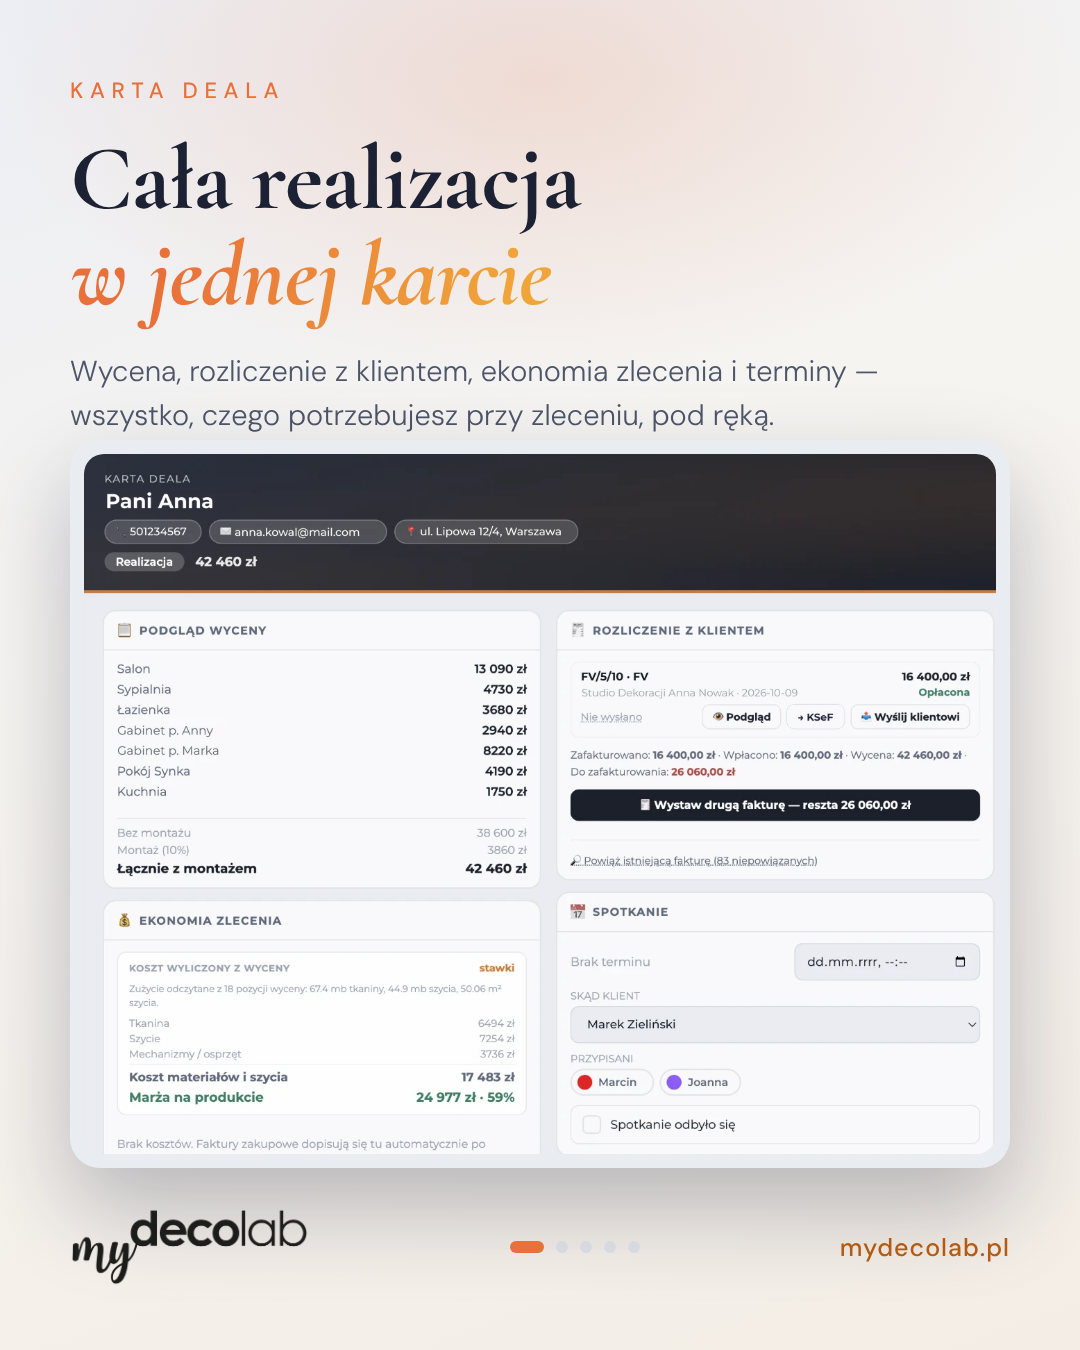
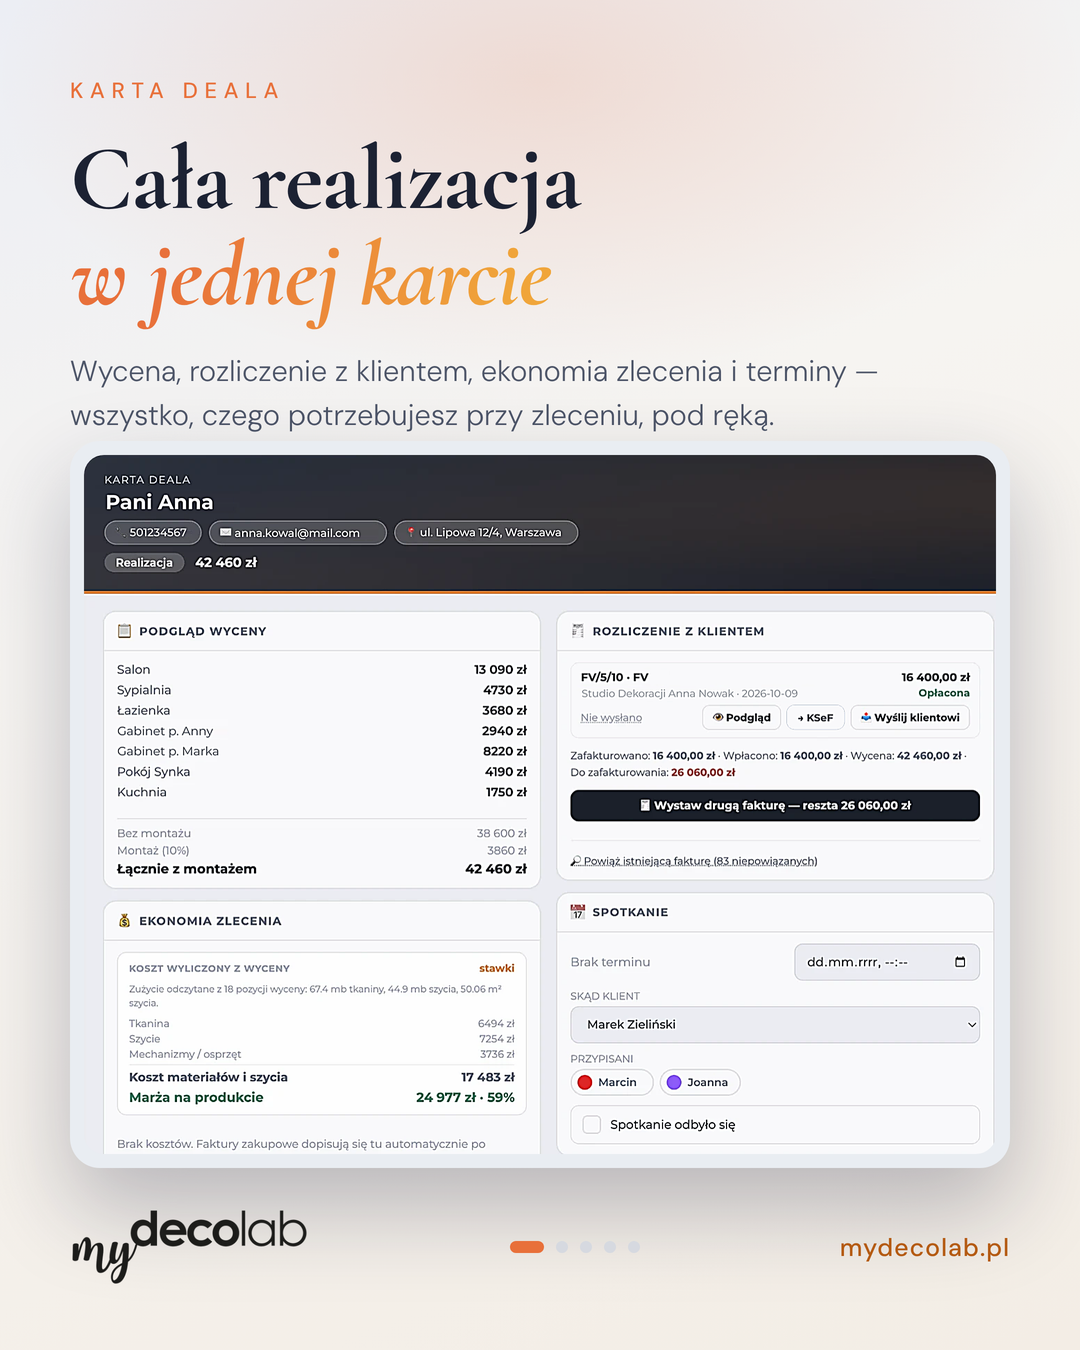
Karuzela IG: ostrzejsze kadry (powiększanie Lanczos + wyostrzenie, rendering 2x)
Claude-Session: https://claude.ai/code/session_01GDbqFbDENKSgmogZ69L9kG

diff --git a/social/render_carousel.py b/social/render_carousel.py
@@ -1,13 +1,14 @@
 """Karuzela na Instagram (5 slajdów 1080x1350) z karty deala. Najpierw: python3 social/anonymize_deal_card.py ...
 Uruchom: CHROMIUM_PATH=... python3 social/render_carousel.py"""
 import os, pathlib
-from PIL import Image
+from PIL import Image, ImageFilter
 from playwright.sync_api import sync_playwright
 from render import ROOT, PUB, OUT, CSS
 
 SRC = ROOT / 'social' / 'src'
 TMP = ROOT / 'social' / 'out' / '_crop'
 TMP.mkdir(parents=True, exist_ok=True)
+SS = 2  # współczynnik supersamplingu: rendering w 2160x2700, potem zmniejszenie do 1080x1350
 
 card = Image.open(SRC / 'deal-card.png')
 modal = Image.open(SRC / 'deal-opinie.png')
@@ -52,15 +53,23 @@ def html(n, crop, width, eyebrow, title, sub):
 def main():
     with sync_playwright() as p:
         b = p.chromium.launch(executable_path=os.environ.get('CHROMIUM_PATH') or None)
-        pg = b.new_page(viewport={'width': 1080, 'height': 1350})
+        pg = b.new_page(viewport={'width': 1080, 'height': 1350}, device_scale_factor=SS)
         for n, (name, img, box, width, ey, t, s) in enumerate(SLIDES):
             crop = TMP / f'{name}.png'
-            img.crop(box).save(crop)
+            c = img.crop(box)
+            # powiększenie z wyprzedzeniem (Lanczos) + lekkie wyostrzenie, zamiast skalowania w przeglądarce
+            inner = (width - 28) * SS
+            c = c.resize((inner, round(c.height * inner / c.width)), Image.LANCZOS)
+            c = c.filter(ImageFilter.UnsharpMask(radius=2.2, percent=140, threshold=2))
+            c.save(crop)
             f = OUT / f'{name}.html'
             f.write_text(html(n, crop, width, ey, t, s), encoding='utf-8')
             pg.goto(f'file://{f}', wait_until='networkidle')
             pg.evaluate('document.fonts.ready')
-            pg.screenshot(path=str(OUT / f'{name}.png'))
+            raw = OUT / f'{name}.raw.png'
+            pg.screenshot(path=str(raw))
+            Image.open(raw).convert('RGB').resize((1080, 1350), Image.LANCZOS).save(OUT / f'{name}.png', optimize=True)
+            raw.unlink()
             f.unlink()
             print(name)
         b.close()
